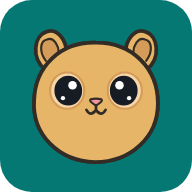
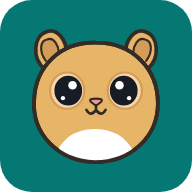
fix: restore the gerbil belly under the head outline (Refs #82)

diff --git a/tests/ui/favicons.test.ts b/tests/ui/favicons.test.ts
@@ -12,8 +12,8 @@ const pngSizes = {
   'web-app-manifest-512x512.png': 512,
 }
 
-/** Decode a non-interlaced 8-bit RGB or RGBA PNG. Returns the alpha of the four corners. */
-function cornerAlphas(png: Buffer): number[] {
+/** Decode a non-interlaced 8-bit RGB or RGBA PNG. */
+function decodePng(png: Buffer) {
   let offset = 8
   let width = 0
   let height = 0
@@ -59,8 +59,19 @@ function cornerAlphas(png: Buffer): number[] {
       pixels[row + x] = value
     }
   }
+  return { width, height, channels, pixels }
+}
+
+function cornerAlphas(png: Buffer): number[] {
+  const { width, height, channels, pixels } = decodePng(png)
   const alpha = (x: number, y: number) => channels === 3 ? 255 : pixels[(y * width + x) * channels + 3]
   return [alpha(0, 0), alpha(width - 1, 0), alpha(0, height - 1), alpha(width - 1, height - 1)]
+}
+
+function rgbAt(png: Buffer, x: number, y: number) {
+  const { width, channels, pixels } = decodePng(png)
+  const index = (y * width + x) * channels
+  return [pixels[index], pixels[index + 1], pixels[index + 2]]
 }
 
 describe('Given the Zzik favicon set behind Cloudflare Access', () => {
@@ -121,6 +132,12 @@ describe('Given the Zzik favicon set behind Cloudflare Access', () => {
     const svg = readFileSync('public/favicon.svg', 'utf8')
     expect(svg).toContain('<svg')
     expect(svg).toContain('viewBox="0 0 180 180"')
+  })
+  it('When apple-touch-icon is decoded Then the belly center stays near white', () => {
+    const [red, green, blue] = rgbAt(readFileSync('public/apple-touch-icon.png'), 90, 136)
+    expect(red).toBeGreaterThanOrEqual(250)
+    expect(green).toBeGreaterThanOrEqual(250)
+    expect(blue).toBeGreaterThanOrEqual(250)
   })
   it('When apple and maskable PNGs are decoded Then every corner alpha is 255', () => {
     for (const file of ['apple-touch-icon.png', 'web-app-manifest-192x192.png', 'web-app-manifest-512x512.png']) {

diff --git a/docs/design/fonts-and-icons.md b/docs/design/fonts-and-icons.md
@@ -48,6 +48,6 @@ Refs #46. 코드 주석(`src/ui/usage/ProviderIcon.tsx`, `src/ui/index.css`)의 
 
 재생성: `node scripts/generate-favicons.mjs` (저장소의 어느 경로에서 실행해도 가능). macOS `sips`는 SVG를 직접 래스터화하지 못하므로 기존 `scripts/lib/cdp.mjs`와 설치된 Google Chrome의 SVG/canvas 렌더러를 사용한다. `CHROME_PATH`로 Chrome 경로를 바꿀 수 있다. npm·런타임 의존성을 추가하지 않았으며 외부 서비스·키·네트워크 호출을 사용하지 않는다. SVG를 수정한 뒤 생성 결과를 함께 커밋한다. 같은 Chrome 버전에서 재현 가능하며 렌더러 버전에 따라 안티앨리어싱은 달라질 수 있다.
 
-`purpose: any`는 `android-chrome-*`다. RealFaviconGenerator가 maskable을 붙이기 전에 쓰던 비마스크 설치 아이콘 이름이라, 현재 RFG 이름인 `web-app-manifest-*`(maskable)와 파일을 나누기 위해서다. any는 `favicon.svg`의 둥근 모서리와 원본 얼굴 크기를 유지한다. maskable 설치 아이콘만 배경을 끝까지 채우고 얼굴만 중심 기준 88%로 줄인다. 로고 전체가 중앙 지름 80%의 안전 원 안에 들어가는지, apple(180)과 maskable이 불투명한지 생성 시 검사한다. `/tmp/zzik-favicon-preview-2.png`에는 16·32·48·96·180, any 192·512, maskable 192·512, 원형 마스크와 안전 원 표시를 라이트·다크 배경에 모아 저장한다. 정적 파일 계약은 `tests/ui/favicons.test.ts`에서 검사한다.
+`purpose: any`는 `android-chrome-*`다. RealFaviconGenerator가 maskable을 붙이기 전에 쓰던 비마스크 설치 아이콘 이름이라, 현재 RFG 이름인 `web-app-manifest-*`(maskable)와 파일을 나누기 위해서다. any는 `favicon.svg`의 둥근 모서리와 원본 얼굴 크기를 유지한다. maskable 설치 아이콘만 배경을 끝까지 채우고 얼굴만 중심 기준 88%로 줄인다. 로고 전체가 중앙 지름 80%의 안전 원 안에 들어가는지, apple(180)과 maskable이 불투명한지 생성 시 검사한다. `/tmp/zzik-favicon-preview-3.png`에는 16·32·48·96·180, any 192·512, maskable 192·512, 원형 마스크와 안전 원 표시를 라이트·다크 배경에 모아 저장한다. 정적 파일 계약은 `tests/ui/favicons.test.ts`에서 검사한다.
 
 Cloudflare Access는 인증 쿠키로 정적 파일도 보호한다. 브라우저의 manifest 요청에 쿠키를 포함하도록 `index.html`의 manifest 링크에 `crossorigin="use-credentials"`를 둔다. 시작 URL은 같은 origin의 `/`이며 기존 Access 인증을 거친다. Worker에 별도 공개 예외나 캐시·인증 우회 라우트를 추가하지 않는다. 구형 `favicon-32.png`·`icon-192.png` 참조는 README·UI·테스트를 포함해 검색 후 새 SVG/PNG 경로로 교체했다.
